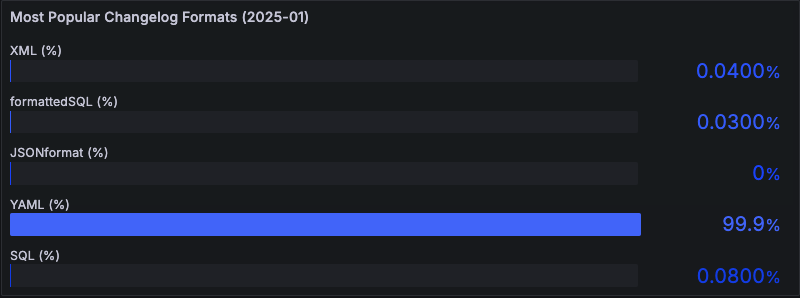
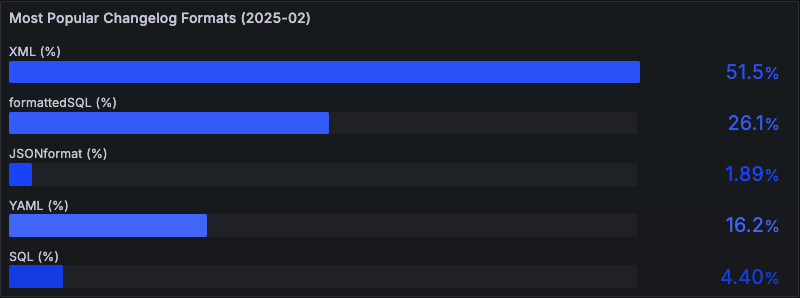
change charts and javascript tweak (#5)
* fix changelog js and pngs(minus march)

* adding march 2025 changelogs chart

diff --git a/pages/changelogs.html b/pages/changelogs.html
@@ -328,12 +328,12 @@
               if (isSelectDateValid()) {
                 onLoadDisplaySelection(
                   formatSelectedDate(),
-                  "users-events-heading-page",
+                  "changelogs-heading-page",
                   "Liquibase Monthly Data Snapshots",
-                  "users-events-chart1",
-                  "users-by-month.png",
-                  "users-events-chart2",
-                  "extensions.png"
+                  "changelogs-chart1",
+                  "changelogs.png",
+                  "changelogs-chart2",
+                  "changelogs.png"
                 );
               } else {
                 alert("Sorry. We cannot show statistics for past (or future!) months for which we have no data.");
